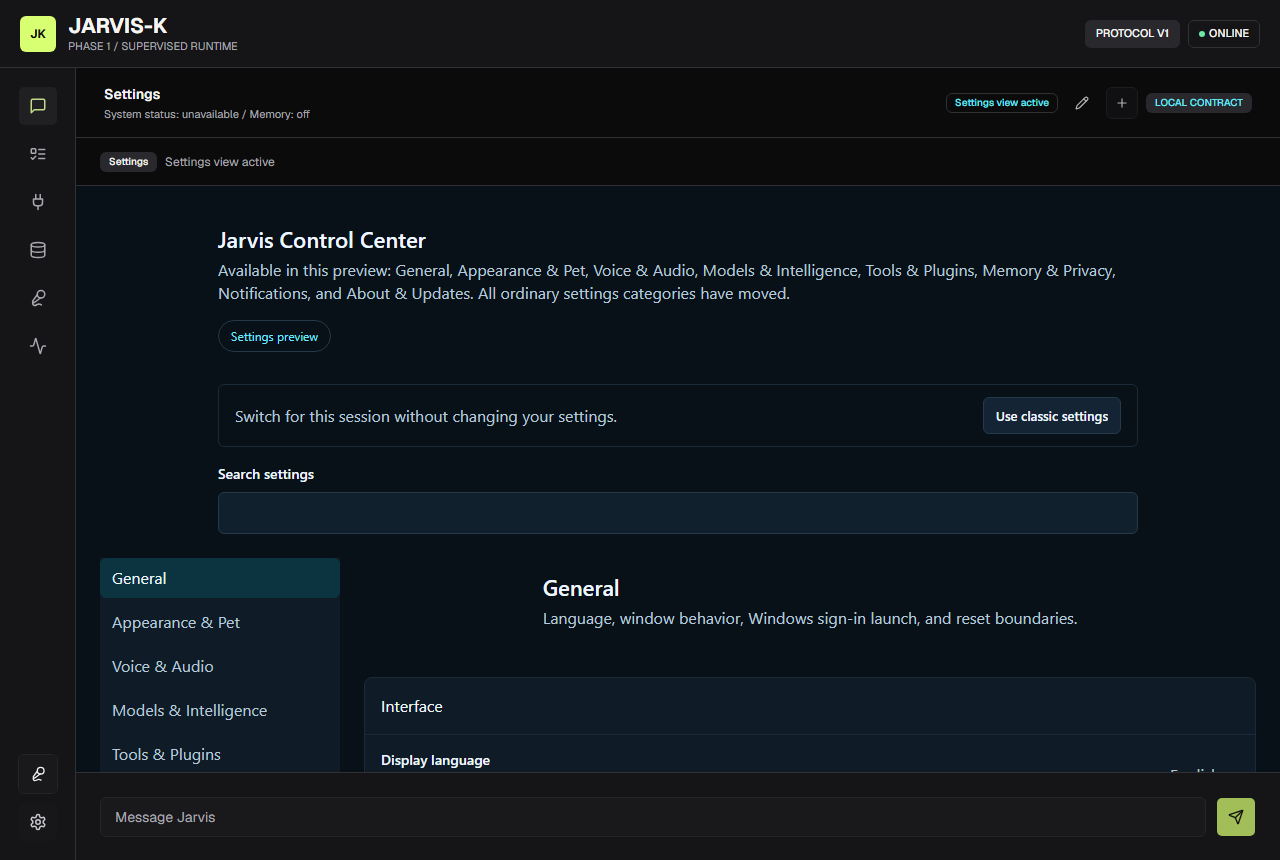
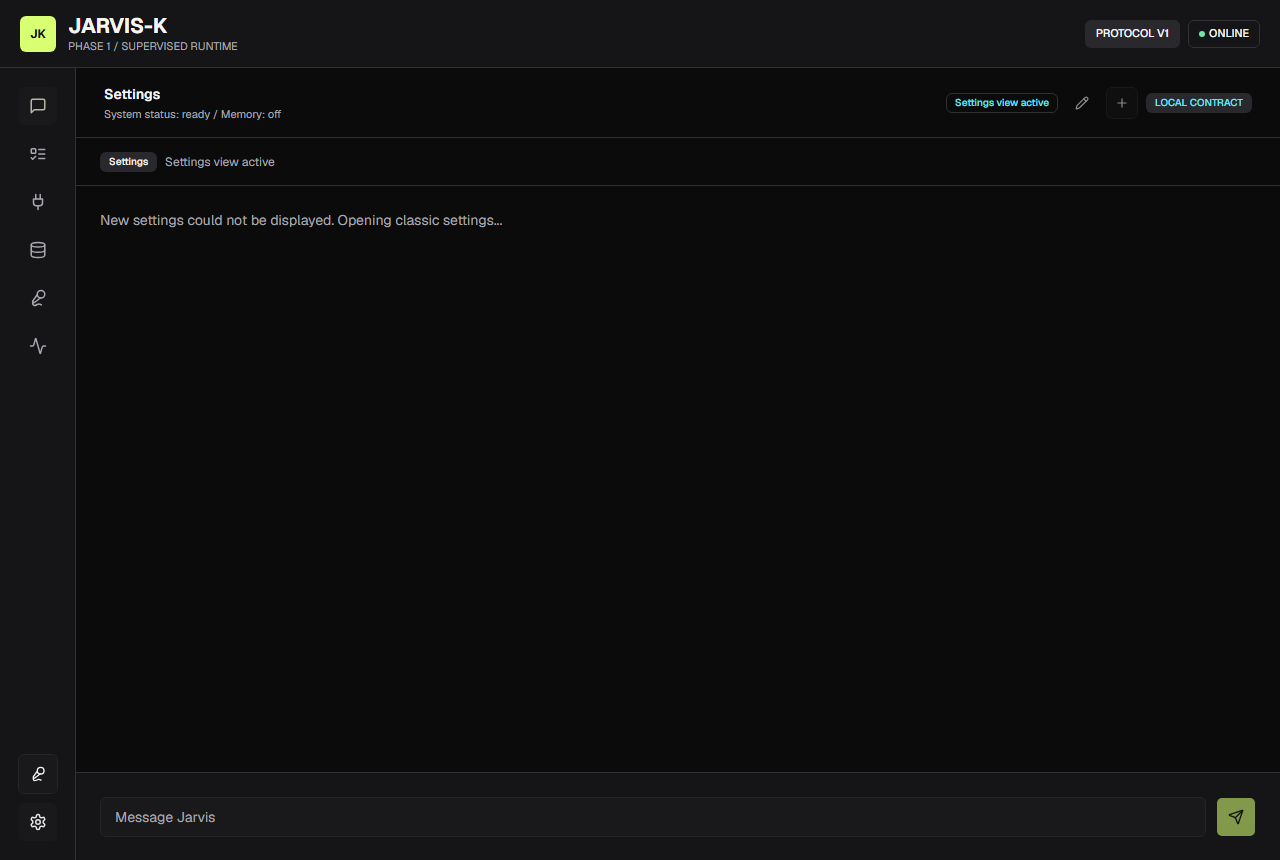
fix: capture settings v2 failure recovery

diff --git a/apps/ui/test/settings-v2-real-entry-source.test.ts b/apps/ui/test/settings-v2-real-entry-source.test.ts
@@ -95,4 +95,11 @@ describe("Settings V2 real entry source boundaries", () => {
     expect(hookSource).not.toContain("sessionStorage");
     expect(appSource).not.toContain("JARVIS_K_ENABLE_SETTINGS_V2");
   });
+
+  it("keeps renderer failure recovery visible until Main pushes fallback", () => {
+    const hookSource = readUiSource("apps/ui/src/hooks/use-ui-surface-mode.ts");
+    expect(hookSource).toContain('if (report.state !== "failed")');
+    expect(hookSource).toContain("setCapabilityStatus(status);");
+    expect(hookSource).toContain("onUiSurfaceCapabilityStatus");
+  });
 });

diff --git a/apps/ui/src/hooks/use-ui-surface-mode.ts b/apps/ui/src/hooks/use-ui-surface-mode.ts
@@ -45,7 +45,9 @@ export function useUiSurfaceMode() {
       }
       try {
         const status = await bridge.reportUiSurfaceHealth(report);
-        setCapabilityStatus(status);
+        if (report.state !== "failed") {
+          setCapabilityStatus(status);
+        }
         return status;
       } catch {
         setCapabilityStatus(null);
